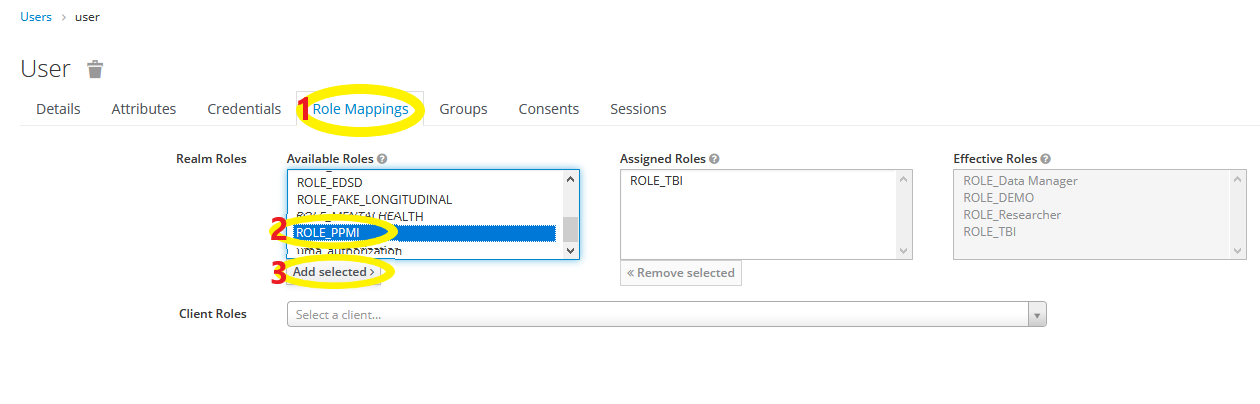
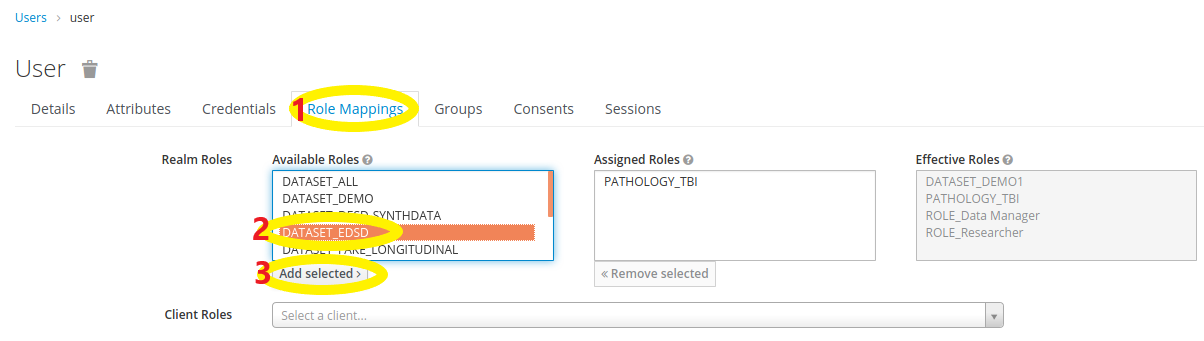
Documentation updated for new roles.

diff --git a/documentation/UserAuthorizations.md b/documentation/UserAuthorizations.md
@@ -19,22 +19,22 @@ There are 2 available groups right now:
 
 1) Select a user: `MIP` -> `Users` -> Select the user
 
-2) Add the appropriate dataset permissions (roles).
+2) Add the appropriate dataset permissions (ROLES).
 ![img1](images/addRole.png)
 
 The following ROLES should exist:
-  - One role for each dataset. Assigning that role to the user he gets access to the pathology and that specific dataset.
-  - One role for each pathology. That role provides access to the pathology and all the datasets it contains.
-  - One Super User role (ROLE_ALL) with which the user gets access to all pathologies and datasets.
+  - One role for each dataset, with the "DATASET_" prefix. Assigning that role to the user he gets access to the pathology and that specific dataset.
+  - One role for each pathology, with the "PATHOLOGY_" prefix. That role provides access to the pathology and all the datasets it contains.
+  - One "Super User" role (DATASET_ALL) with which the user gets access to all pathologies and datasets. You can assign this role to any "Administrator" users that you always want them to have access to everything.
 
 ### Adding a new dataset
 
 When a new dataset is added on MIP, the following configurations should be made:
   - Go to `Roles` -> `Realm Roles` -> `Add Role`
-  - On the Role Name you should enter the prefix `ROLE_` and then the code of the new dataset. Then Save that `Role`.
+  - On the Role Name you should enter the prefix `DATASET_` and then the code of the new dataset. Then Save that `Role`.
 
-If the dataset belongs to a new pathology, you could also add a ROLE that will contain all the pathology datasets.
-  - Follow the same process as with the dataset and create a ROLE for the pathology.
+If the dataset belongs to a new pathology, you could also add a role that will contain all the pathology datasets.
+  - Follow the same process as with the dataset but with a "PATHOLOGY_" prefix and create a role for the pathology.
   - Select that role.
   - On the `Details` tab select the `Composite Roles` option.
   - Afterwards, select all the dataset roles that belong to this pathology.
